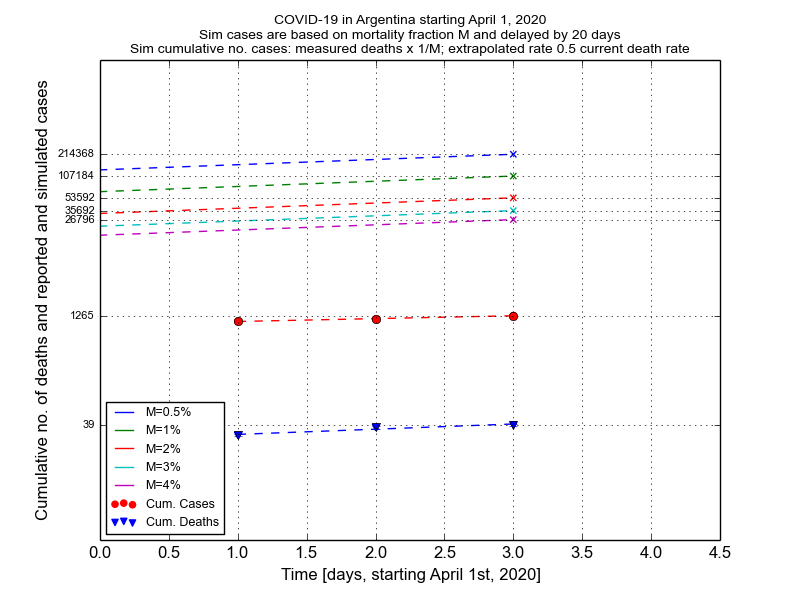
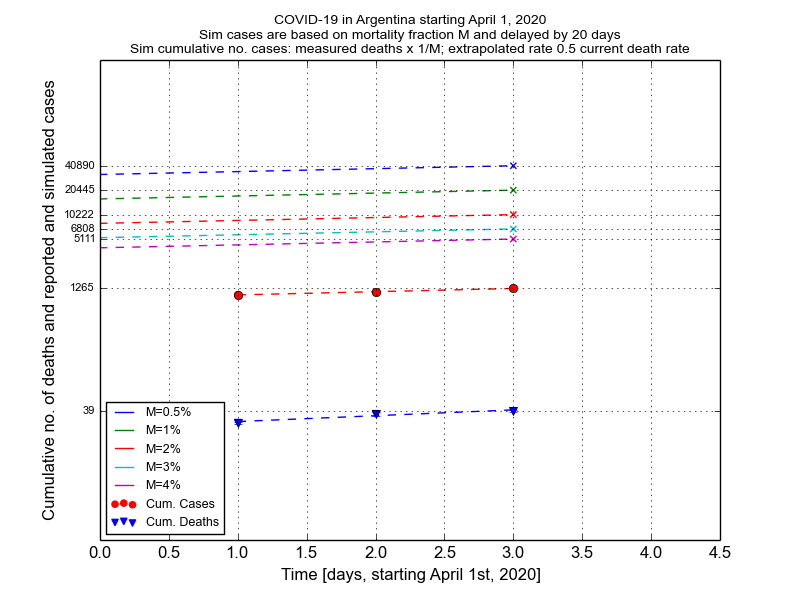
more conservative threshold for extrapolation rate

diff --git a/cov_model/cov_lin_wrapper.py b/cov_model/cov_lin_wrapper.py
@@ -361,11 +361,11 @@ def make_simulations_plot(variable_pack, country,
     # correction: 20 days is probably more realistic
     if slowdown_deaths is not None:
         slope_sim = slope_d_s  # / 2.0 when rates halfen roughly
-        if slope_sim > 0.2:
+        if slope_sim > 0.15:
             slope_sim = slope_sim / 2.0
     else:
         slope_sim = slope_d  # / 2.0 when rates halfen roughly
-        if slope_sim > 0.2:
+        if slope_sim > 0.15:
             slope_sim = slope_sim / 2.0
     sim_y_0_f = sim_y_0_real[-1] * np.exp(20. * slope_sim)
     sim_y_1_f = sim_y_1_real[-1] * np.exp(20. * slope_sim)

diff --git a/Mathematical_Model.md b/Mathematical_Model.md
@@ -72,8 +72,8 @@ growth rate of the actual cases, which we assume to be close to the evolution ov
 days of `m` (case evolution is well mirrored by the deaths evolution after 20 days).
 
 For March, when a lot of the deaths rates `m` have been noticed to drop to half after 15-20 days, we
-chose `f(m) = m/2`; for April (so far) we are thresholding `m` at 0.2 and apply the 0.5 factor only
-for `m > 0.2` since those rates < 0.2 are very stable and have not been observed to change over longer
+chose `f(m) = m/2`; for April (so far) we are thresholding `m` at 0.15 and apply the 0.5 factor only
+for `m > 0.15` since those rates < 0.15 are very stable and have not been observed to change over longer
 periods of time. This way we can estimate the actual number of cases today as:
 ```
 C_today = C(t - 20)exp(f(m)t)
